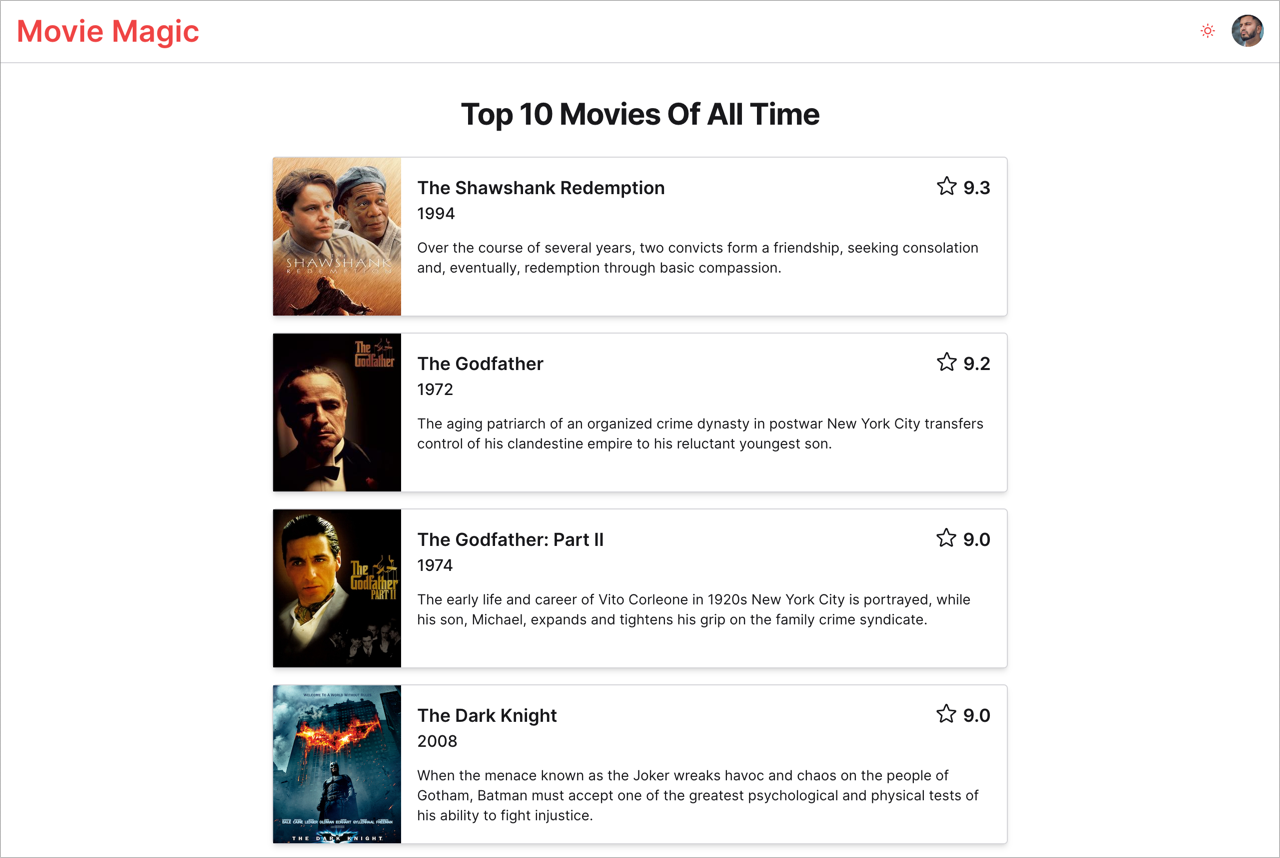
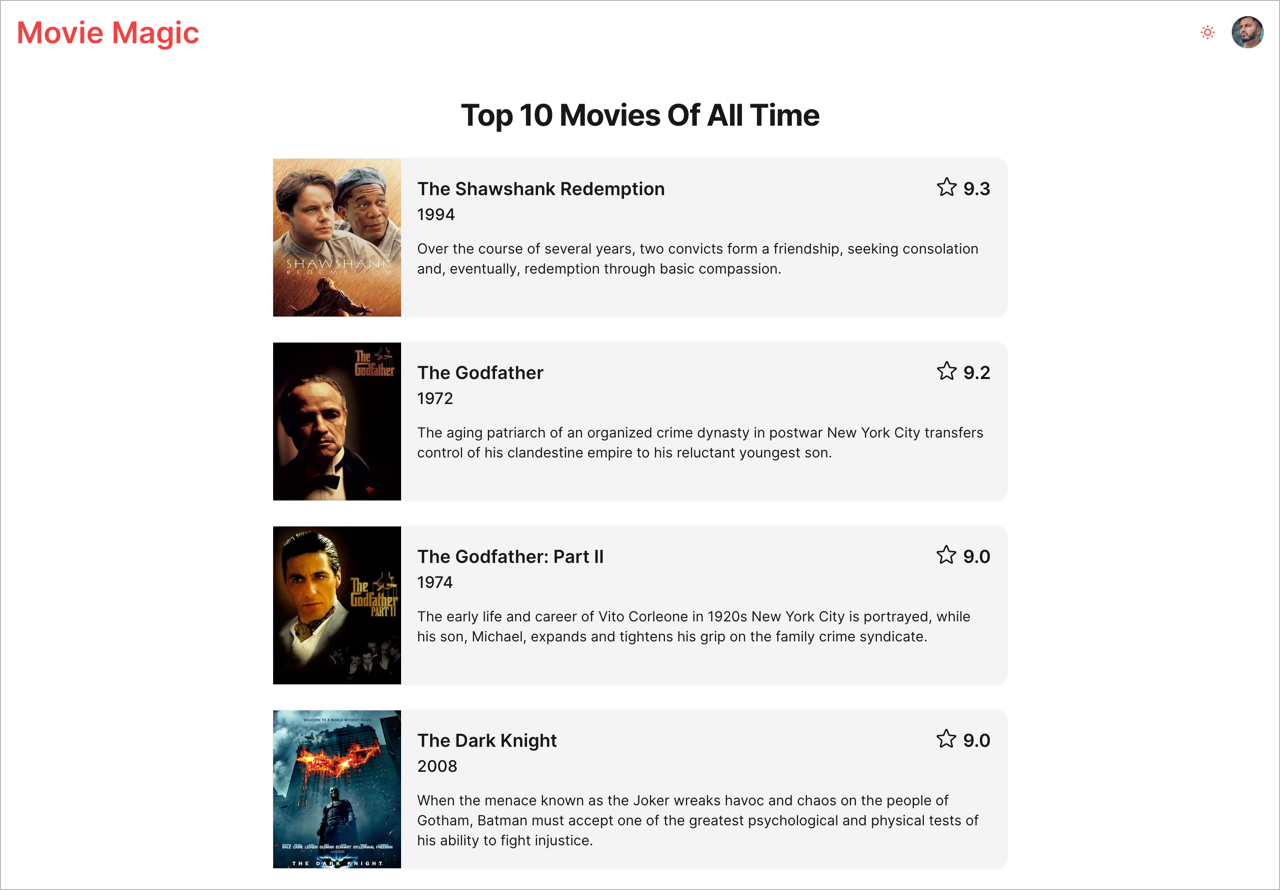
Styling changes

diff --git a/apps/movie-magic-nextjs/src/app/global.css b/apps/movie-magic-nextjs/src/app/global.css
@@ -61,6 +61,7 @@
     --color-bg-brand-hover: rgba(var(--color-primary-600));
     --color-bg-secondary: rgba(var(--color-white));
     --color-bg-secondary-hover: rgba(var(--color-primary-50));
+    --color-bg-surface: rgba(var(--color-neutral-100));
 
     --color-border-default: rgba(var(--color-neutral-300));
     --color-border-focus: rgba(var(--color-primary-500));
@@ -97,6 +98,7 @@
     --color-bg-brand-hover: rgba(var(--color-primary-600));
     --color-bg-secondary: rgba(var(--color-white));
     --color-bg-secondary-hover: rgba(var(--color-primary-50));
+    --color-bg-surface: rgba(var(--color-neutral-800));
 
     --color-border-default: rgba(var(--color-neutral-700));
     --color-border-focus: rgba(var(--color-primary-500));

diff --git a/apps/movie-magic-nextjs/tailwind.config.js b/apps/movie-magic-nextjs/tailwind.config.js
@@ -14,6 +14,7 @@ module.exports = {
       'brand-hover': 'var(--color-bg-brand-hover)',
       secondary: 'var(--color-bg-secondary)',
       'secondary-hover': 'var(--color-bg-secondary-hover)',
+      surface: 'var(--color-bg-surface)',
       // TODO: Remove the following atomic colors
       white: 'rgba(var(--color-white))',
       black: 'rgba(var(--color-black))',
@@ -43,6 +44,7 @@ module.exports = {
       },
     },
     borderColor: {
+      transparent: 'transparent',
       default: 'var(--color-border-default)',
       focus: 'var(--color-border-focus)',
     },

diff --git a/apps/movie-magic-nextjs/src/app/top-10-movies/Top10MoviesList.tsx b/apps/movie-magic-nextjs/src/app/top-10-movies/Top10MoviesList.tsx
@@ -29,10 +29,10 @@ async function getMovies() {
 export async function Top10MoviesList() {
   const movies = await getMovies();
   return (
-    <ul className="flex-none space-y-4">
+    <ul className="flex-none space-y-6">
       {movies.map((movie: any) => (
         <li key={movie.id}>
-          <div className="border border-default rounded shadow-md h-40 flex">
+          <div className="bg-surface border border-transparent rounded-xl h-40 flex">
             <div className="flex-none w-32 relative">
               <Image
                 src={movie.photoUrl}
